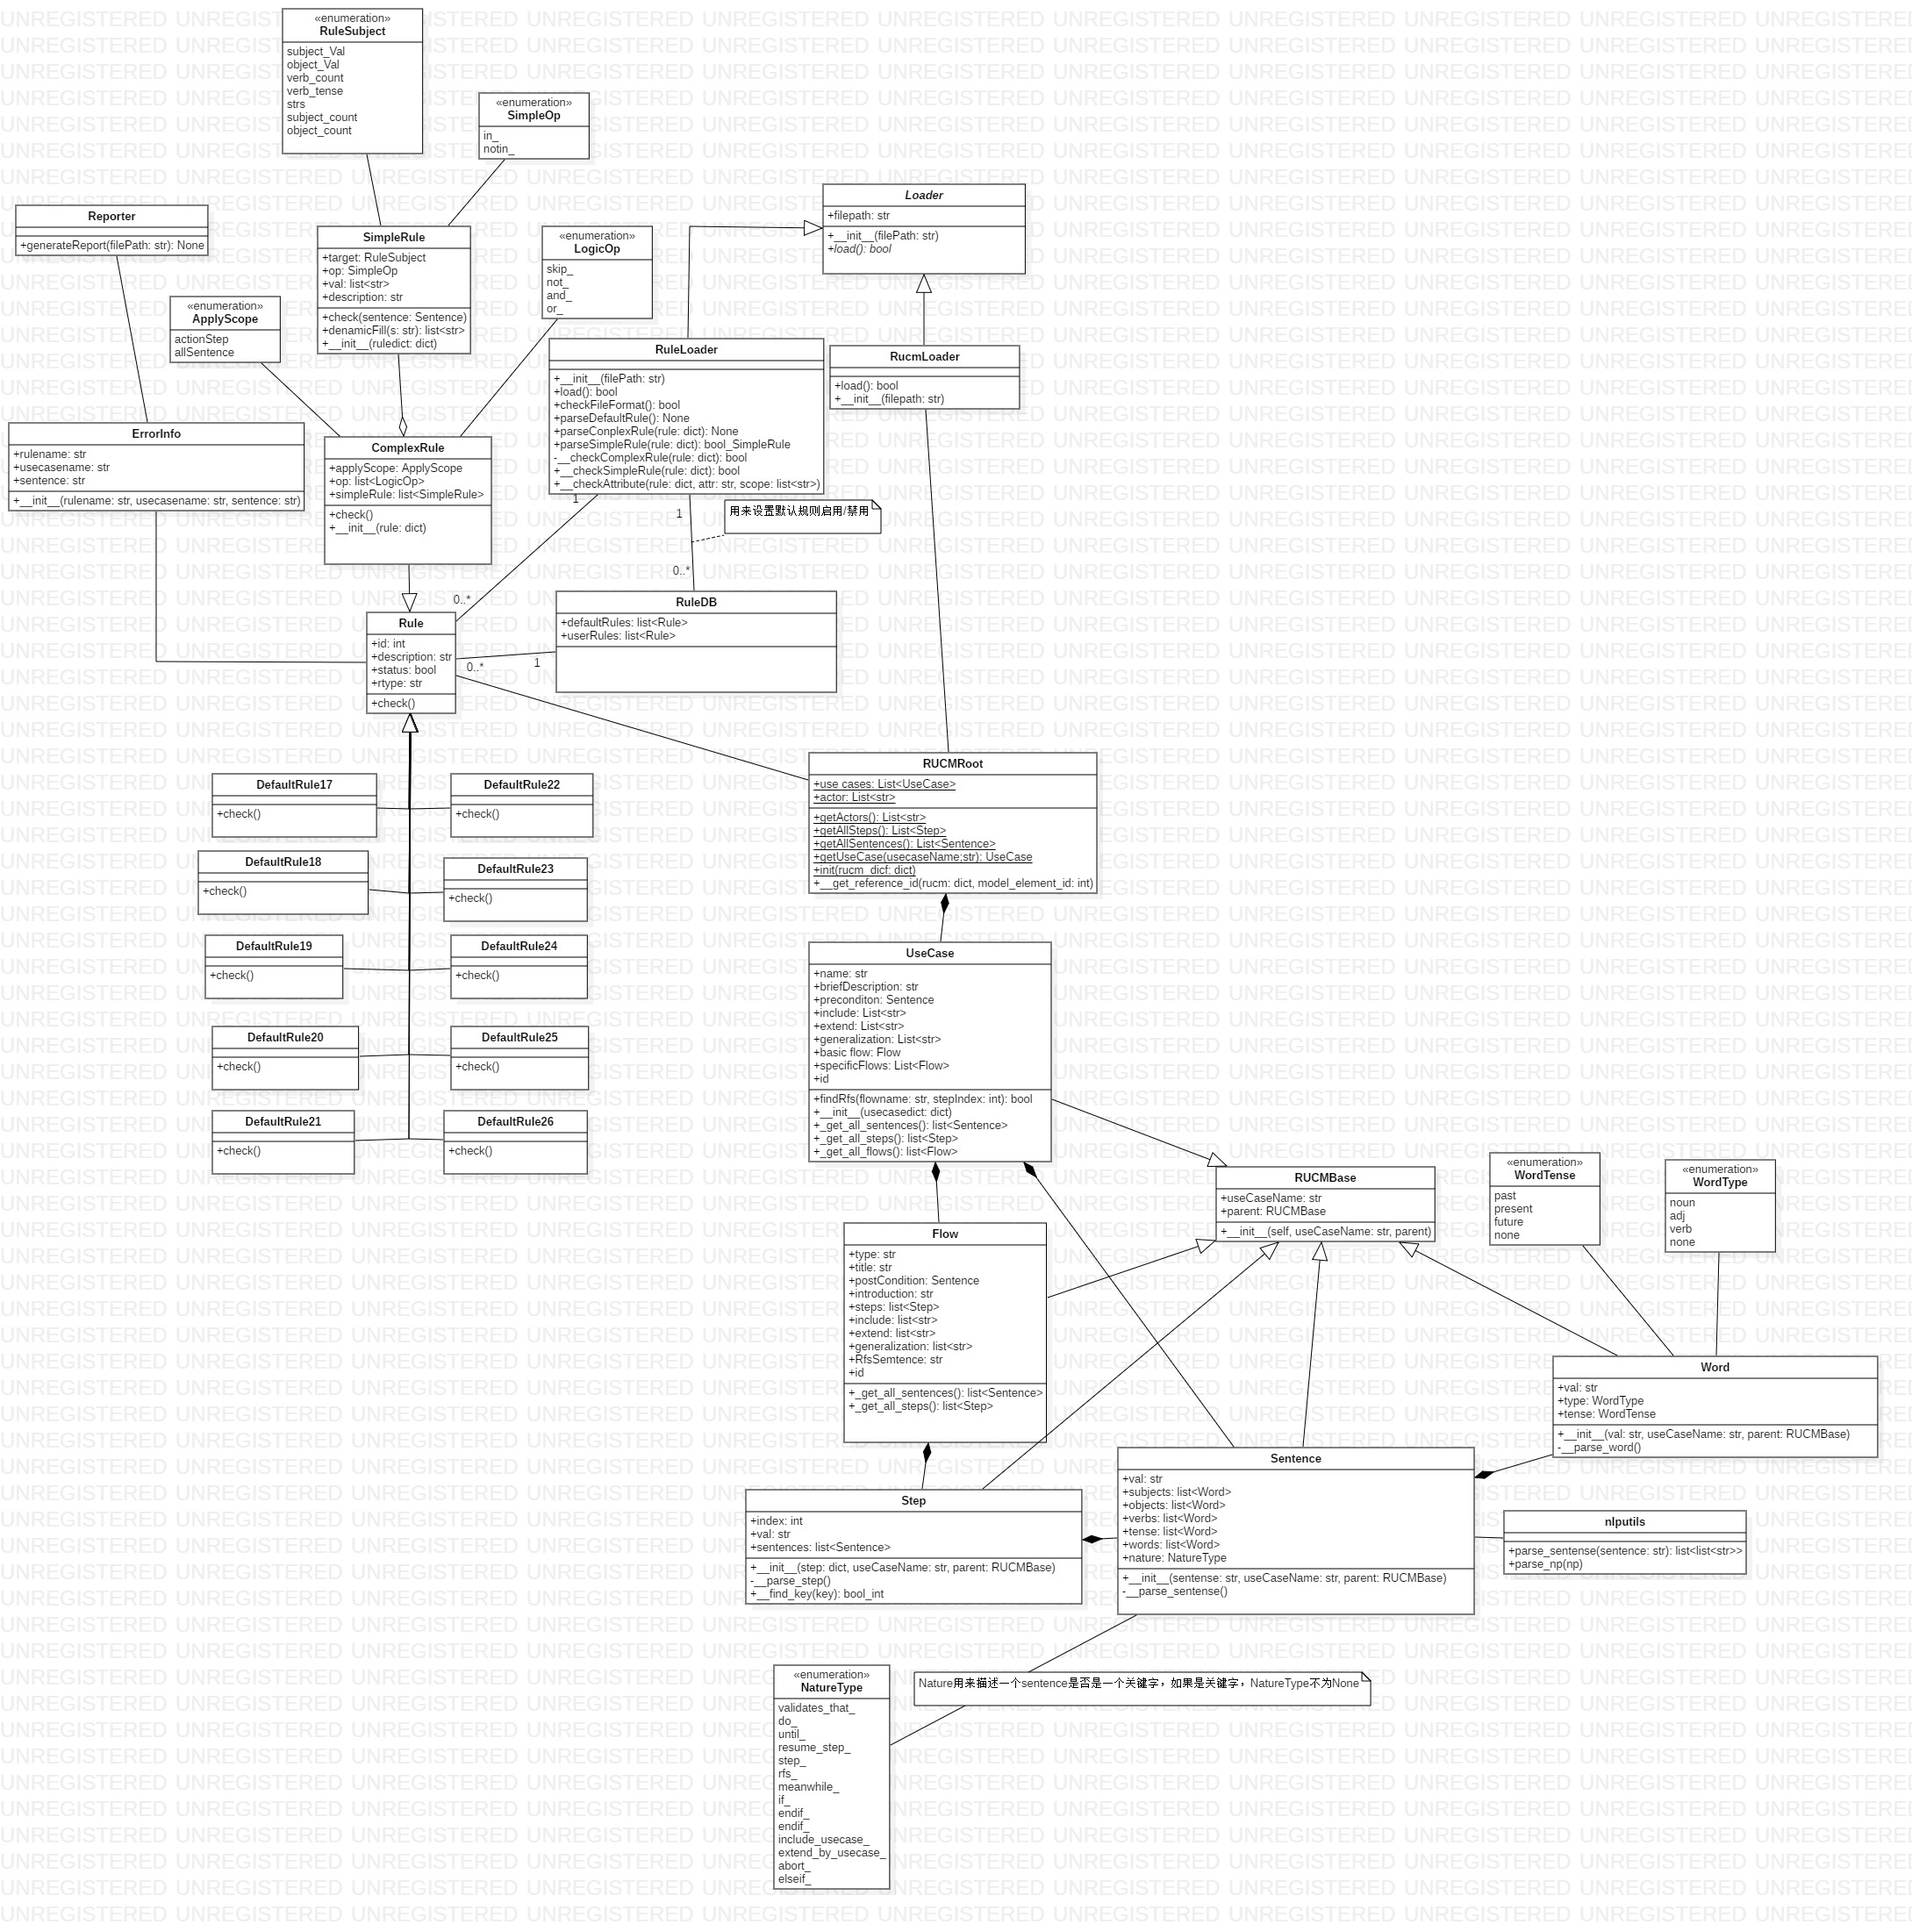
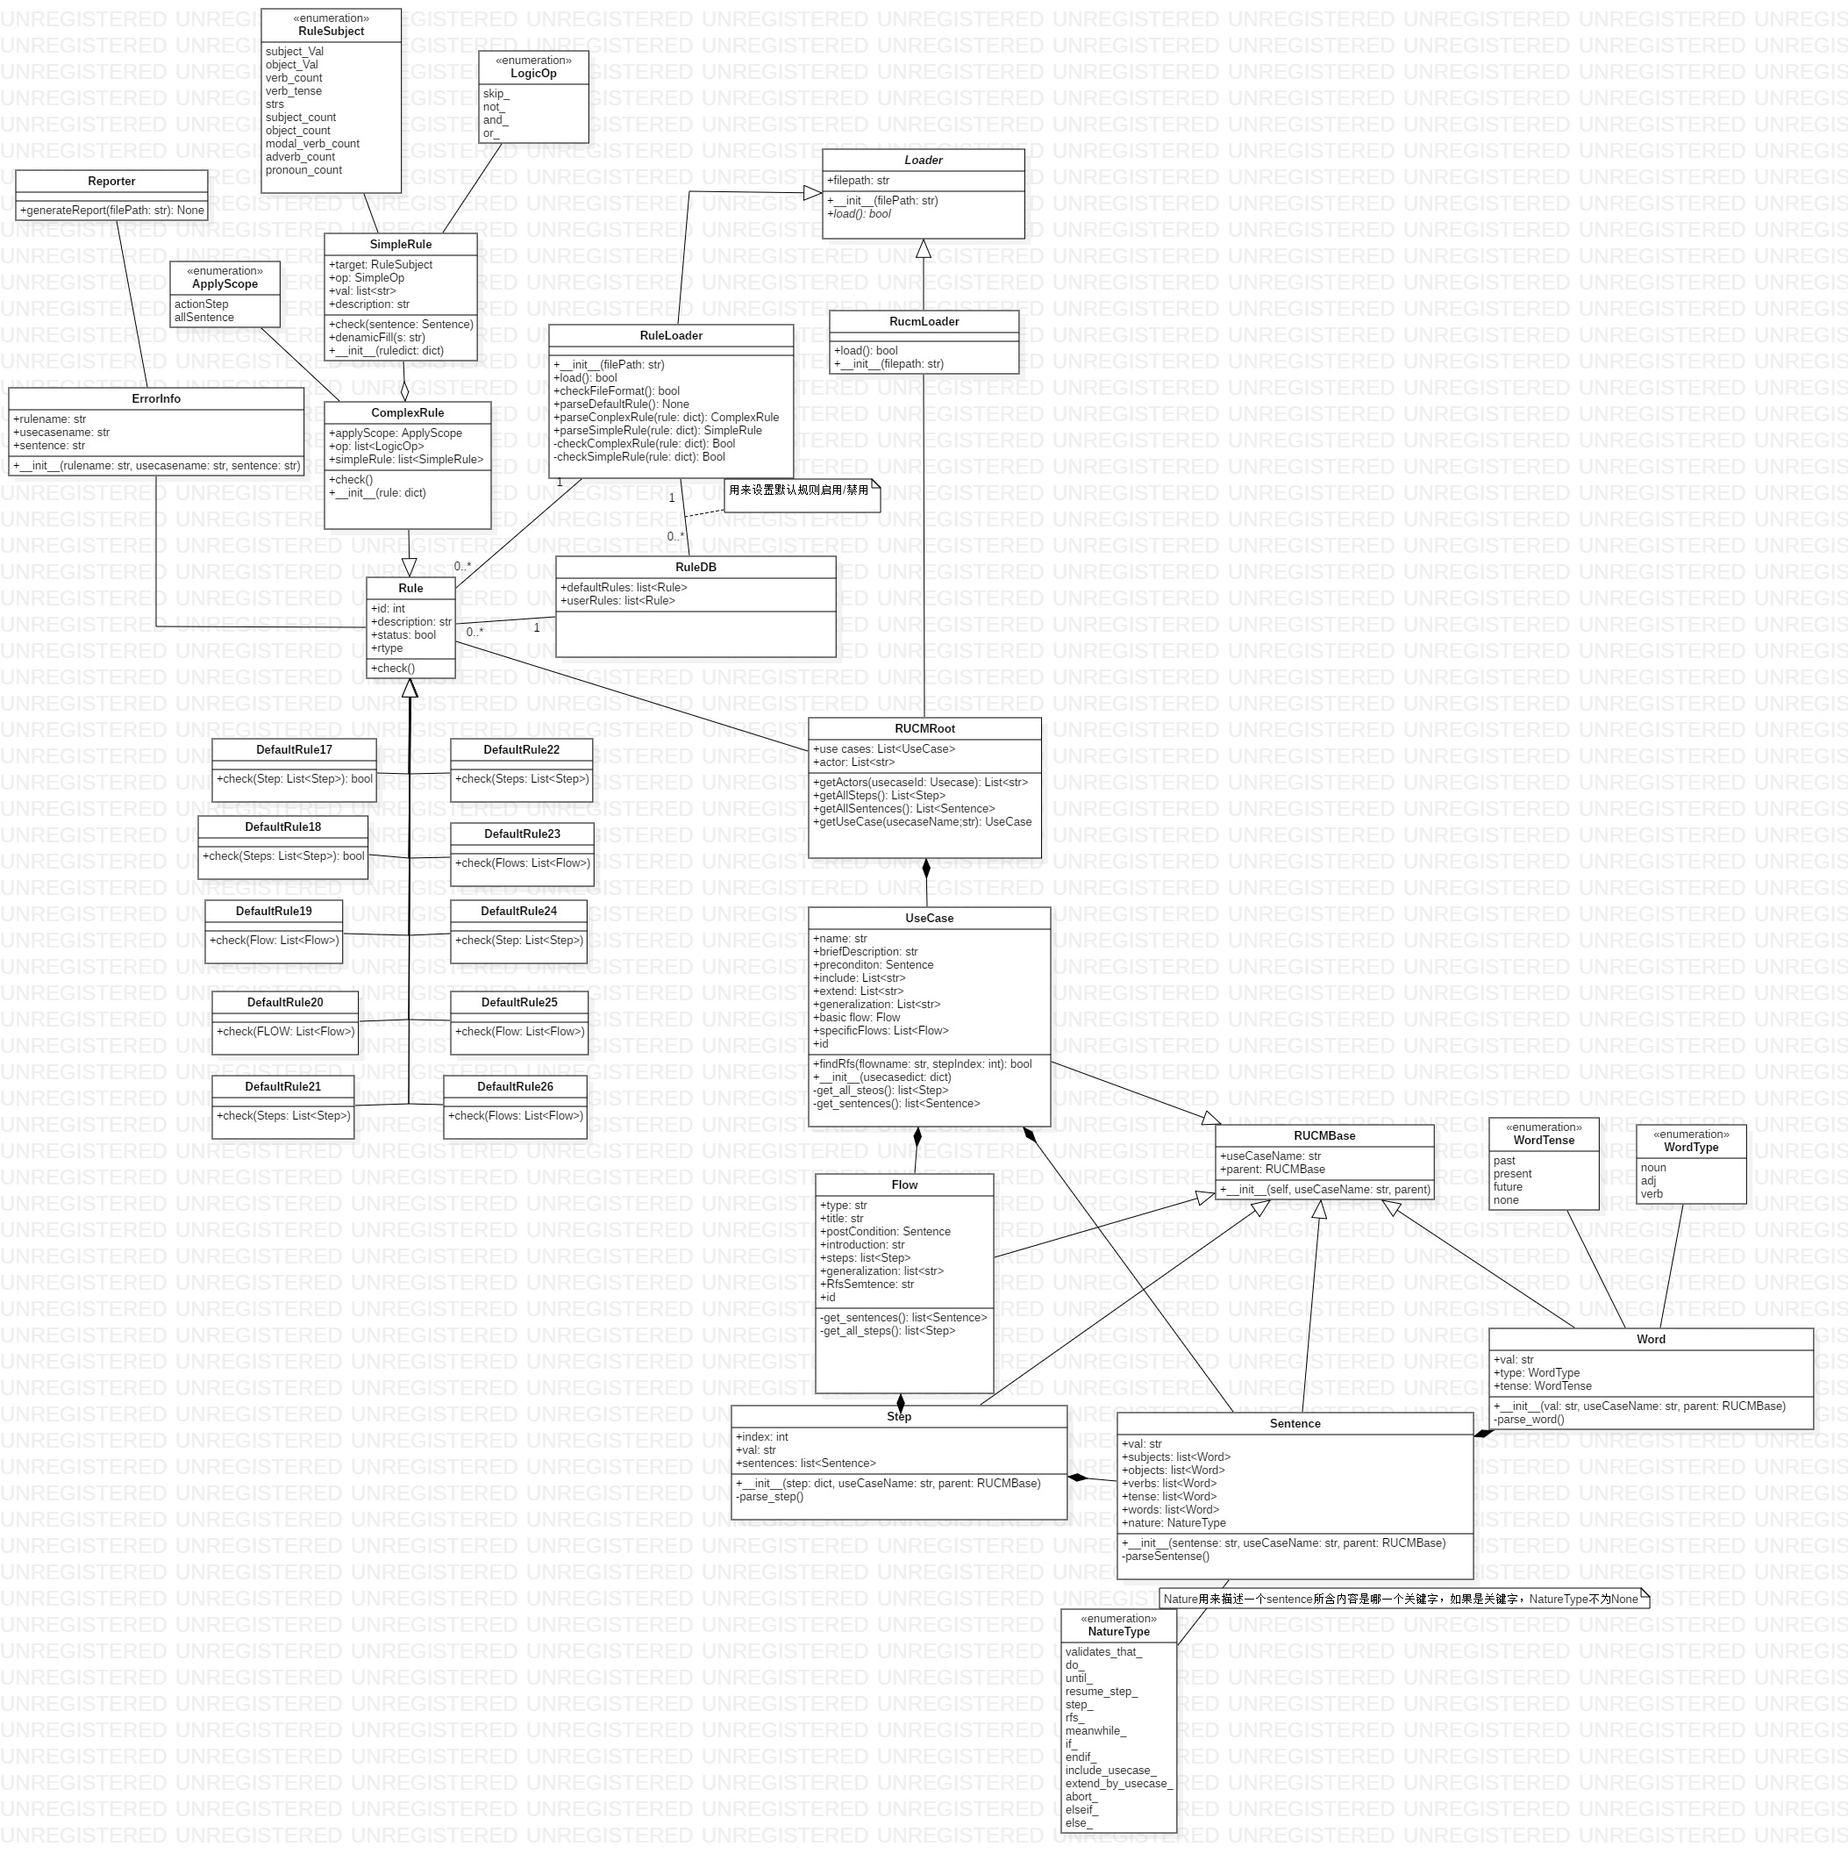
modify rule-template

diff --git a/doc/rule-template.md b/doc/rule-template.md
@@ -21,6 +21,9 @@
       * verb_count : 动词的数量
       * verb_tense：动词的时态
       * strs: 句子中所有的词
+      * modal_verb_count：情态动词的数量
+      * adverb_count：副词的数量
+      * pronoun_count：代词的数量
 
     * `operation`: 对检查对象的约束，取值可以是“in”,"notIn"
 
